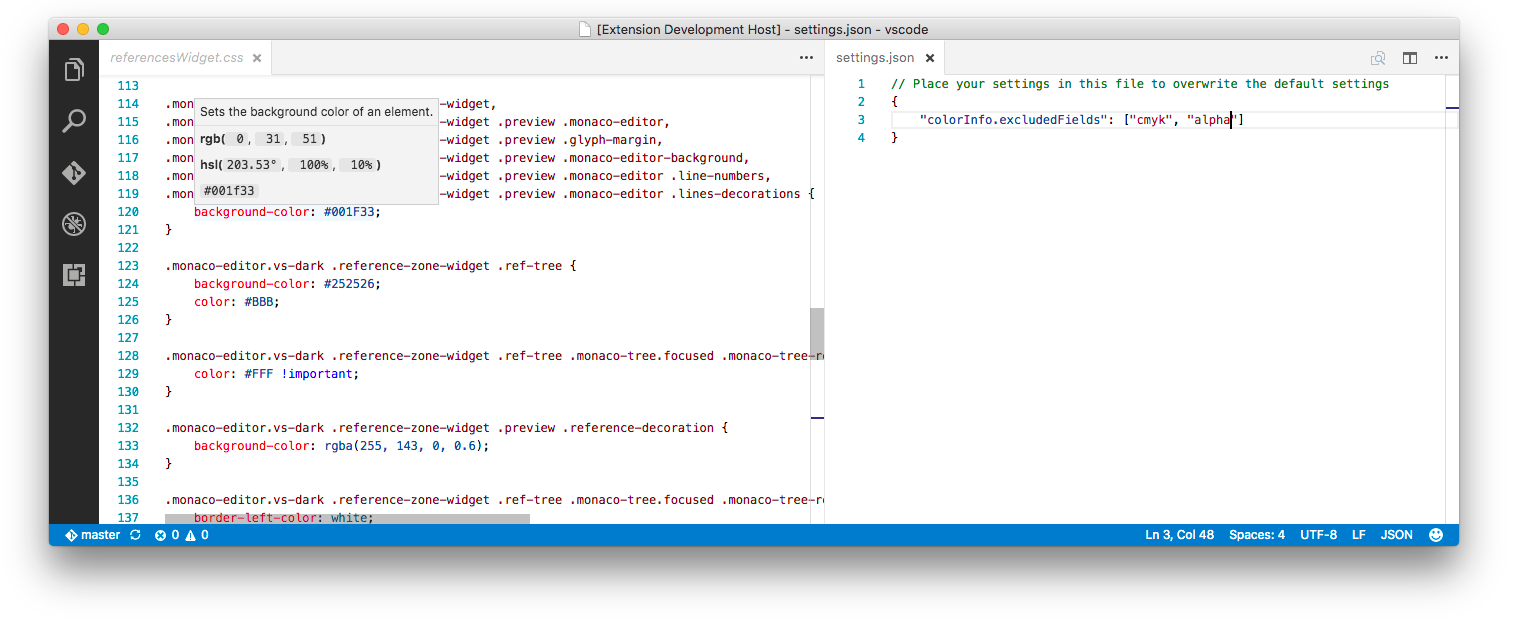
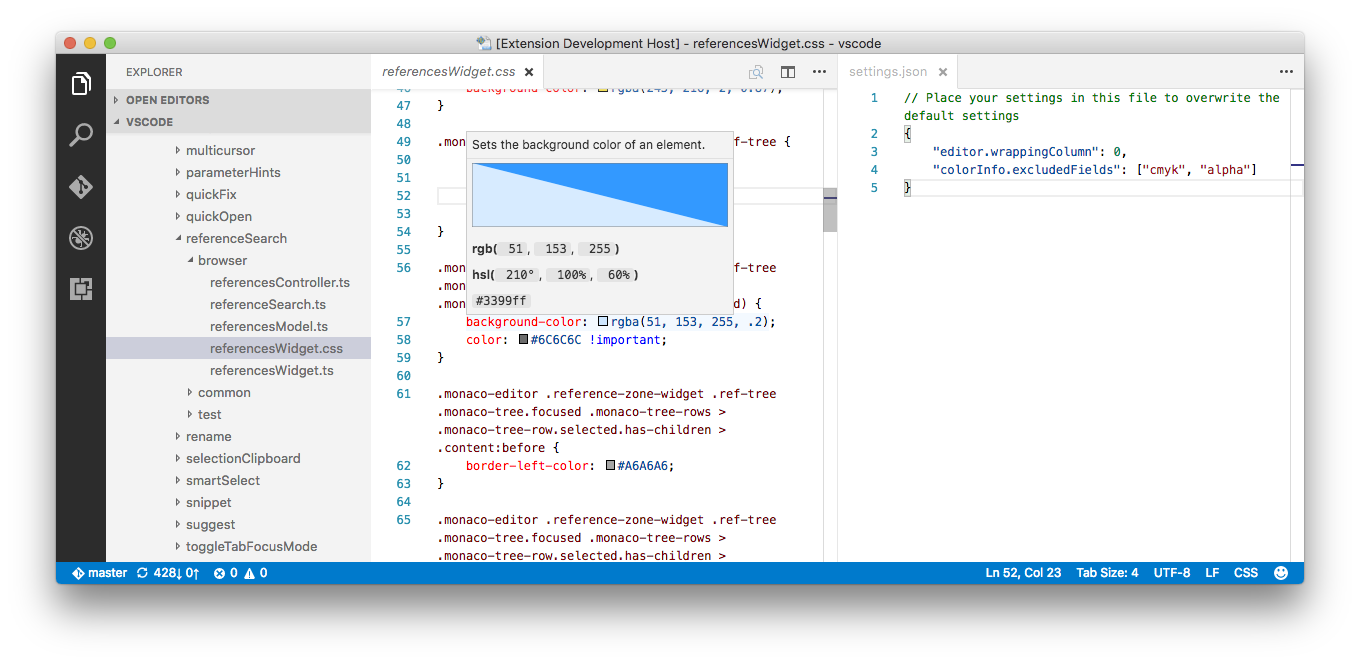
Updating preview

diff --git a/src/displays/preview_display.ts b/src/displays/preview_display.ts
@@ -22,9 +22,11 @@ class PreviewDisplay implements ColorInfoDisplay {
         const datauri = new Datauri();
         const src = `<?xml version="1.0" encoding="utf-8"?>
 <!DOCTYPE svg PUBLIC "-//W3C//DTD SVG 1.1//EN" "http://www.w3.org/Graphics/SVG/1.1/DTD/svg11.dtd">
-<svg version="1.1" id="Layer_1" xmlns="http://www.w3.org/2000/svg" xmlns:xlink="http://www.w3.org/1999/xlink" x="0px" y="0px"
+<svg version="1.1" id="Layer_1" xmlns="http://www.w3.org/2000/svg" xmlns:xlink="http://www.w3.org/1999/xlink" x="0px" y="0px" style="background-color: white;"
 	 width="${this._width}px" height="${this._height}px" viewBox="0 0 ${this._width} ${this._height}" xml:space="preserve">
-     <rect width="${this._width}" height="${this._height}" style="fill:${hex}" />
+        <rect width="${this._width}" height="${this._height}" fill="${hex}" />
+        <polygon points="0,0 0,${this._height} ${this._width},${this._height}" fill="${hex}" fill-opacity="${match.color.getAlpha()}" />
+        <rect width="${this._width}" height="${this._height}" fill-opacity="0" stroke="gray" strokeWidth="1" />
 </svg>`;
         datauri.format('.svg', src);
         return `![](${datauri.content})`
@@ -32,6 +34,7 @@ class PreviewDisplay implements ColorInfoDisplay {
 }
 
 export const Preview = new PreviewDisplay('preview', 256, 64)
+export const PreviewXL = new PreviewDisplay('preview-xl', 400, 128)
 
-export const PreviewSquare = new PreviewDisplay('preview-box', 128, 128)
-export const PreviewSquareXL = new PreviewDisplay('preview-box-xl', 256, 256)
+export const PreviewSquare = new PreviewDisplay('preview-square', 128, 128)
+export const PreviewSquareXL = new PreviewDisplay('preview-square-xl', 256, 256)

diff --git a/src/color_info_hover_provider.ts b/src/color_info_hover_provider.ts
@@ -10,10 +10,10 @@ import CmykDisplay from './displays/cmyk_display'
 import LabDisplay from './displays/lab_display'
 import AlphaDisplay from './displays/alpha_display'
 import HexDisplay from './displays/hex_display'
-import {Preview, PreviewSquare, PreviewSquareXL} from './displays/preview_display'
+import {Preview, PreviewXL, PreviewSquare, PreviewSquareXL} from './displays/preview_display'
 
 const allFields = [
-    Preview, PreviewSquare, PreviewSquareXL,
+    Preview, PreviewXL, PreviewSquare, PreviewSquareXL,
     RgbDisplay,
     HslDisplay,
     HsvDisplay,

diff --git a/README.md b/README.md
@@ -15,6 +15,10 @@
 * `cmyk` – CMYK color values. Enabled by default
 * `hex` – Hex value. Enabled by default
 * `alpha` – Alpha value. Enabled by default
+* `preview` – Preview of the color. Displays color with alpha in lower left coner and color without alpha in upper right corner. Enabled by default
+* `preview-xl` – Larger preview of the color
+* `preview-square-xl` – Square preview of the color
+* `preview-square-xl` – Larger square preview of the color
 
 You can customize which of these fields are displayed and the order they are displayed in using the settings described below.
 
